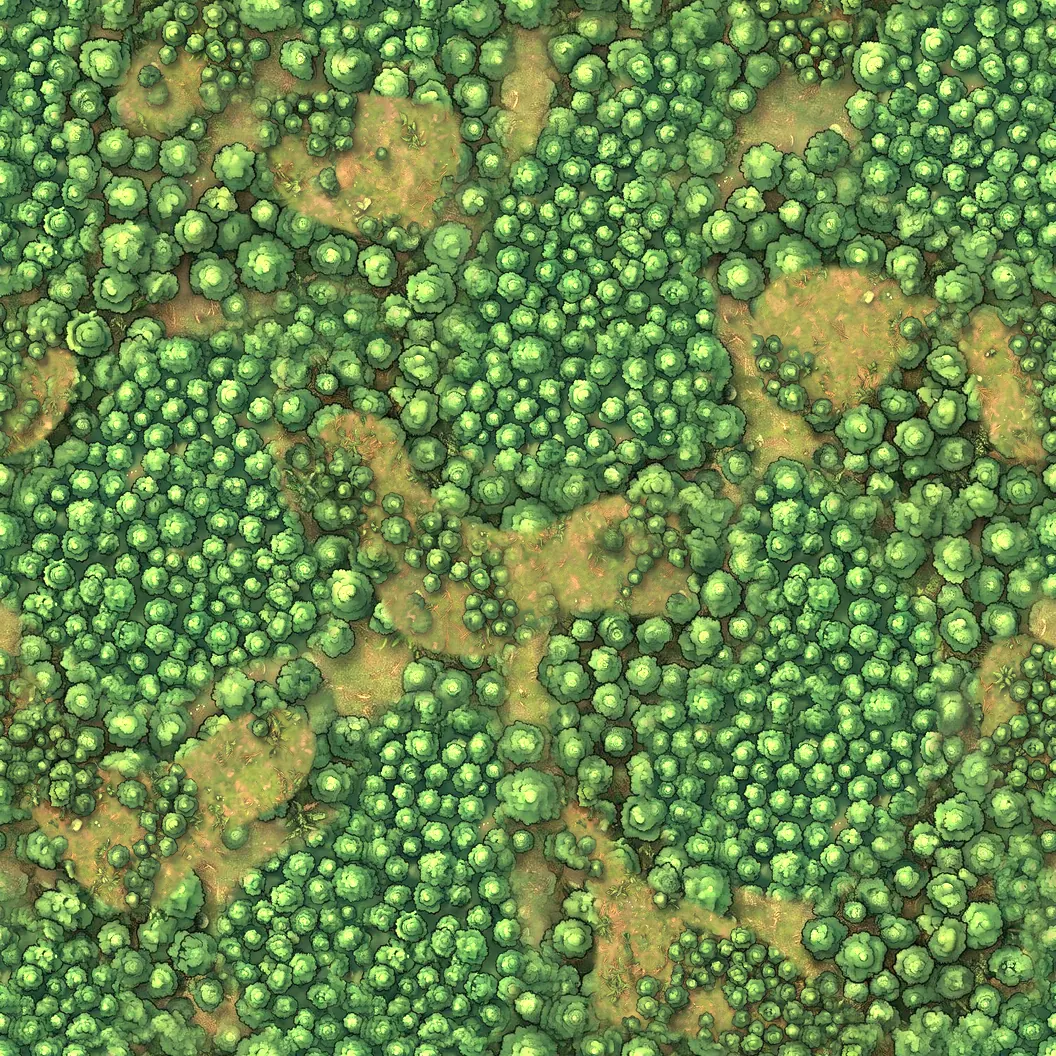
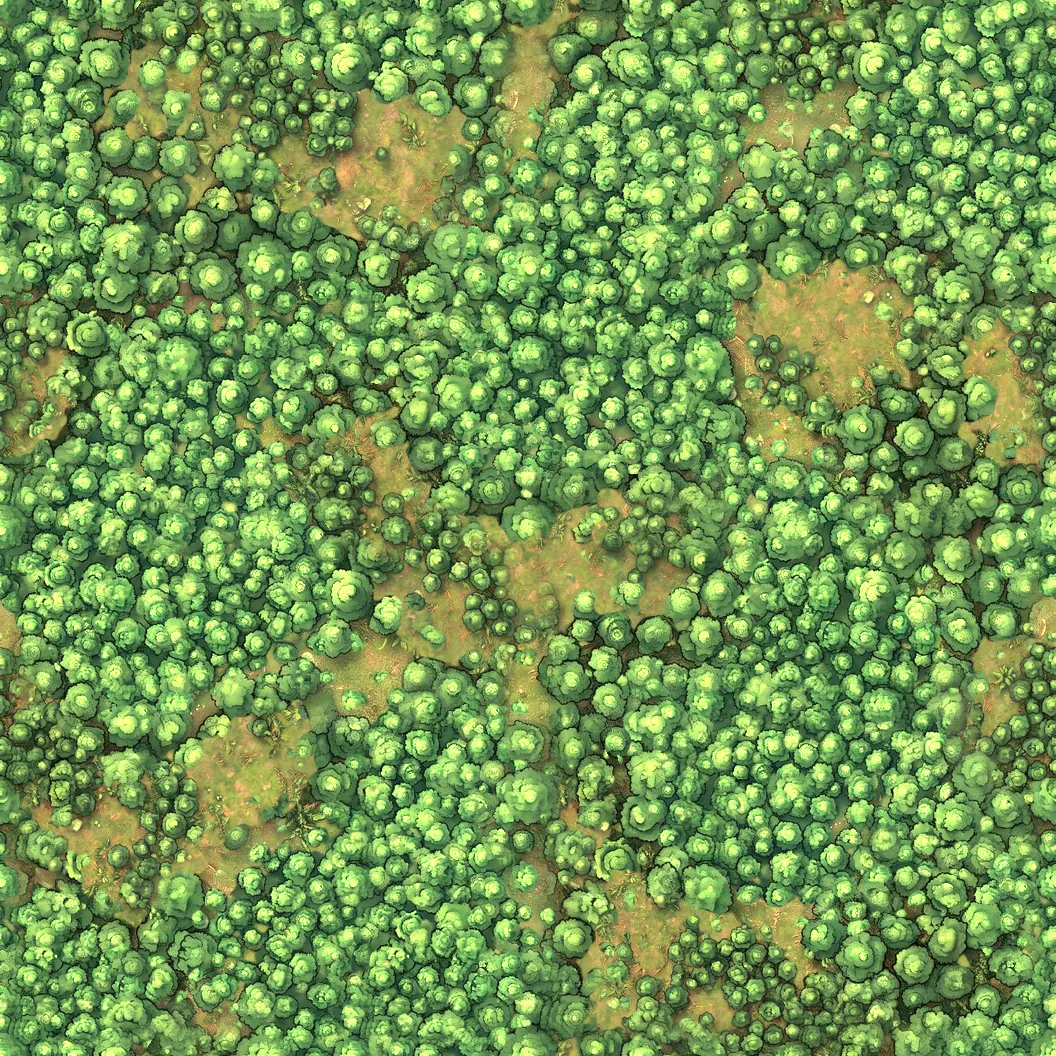
Ground pictures blended by taking each pixel from one of them rather than fading both together: where two densities meet, treetops of either stand whole on the other's ground, no ground showing see-through over trees
Claude-Session: https://claude.ai/code/session_014mPV2zL44TcDQaUfxc49uR

diff --git a/scripts/texture.py b/scripts/texture.py
@@ -78,14 +78,24 @@ else:
     v = np.argsort(np.argsort(v.ravel())).reshape(v.shape) / (v.size - 1)
     # (the densest the most of them: about half the ground thick, a quarter with a few clearings, the rest open)
     pos = v ** a.thick * (len(tiles) - 1)
-    out = np.zeros((n, n, 3), np.float32)
-    weight = np.zeros((n, n, 1), np.float32)
+    # Where two meet, each pixel is taken from one of them rather than both faded together (which shows one
+    # painting see-through over the other, ground over treetops): the one with the more weight there, a
+    # treetop or a plant standing higher than bare ground (how much greener than it is red and blue), so
+    # trees of either stand whole on the other's ground; the choice made over a pixel or two, for no jaggies
+    from scipy import ndimage
+    layers, scores = [], []
     for i, t in enumerate(tiles):
-        wgt = np.clip(1.6 - np.abs(pos - i) * 2.2, 0, 1)[..., None] ** 1.5
         k = n // t.shape[0]
-        out += np.tile(t, (k, k, 1)) * wgt
-        weight += wgt
-    out /= np.maximum(weight, 1e-6)
+        big = np.tile(t, (k, k, 1))
+        wgt = np.clip(1.5 - np.abs(pos - i) * 1.1, 0, 1)
+        green = big[..., 1] - (big[..., 0] + big[..., 2]) / 2
+        tall = ndimage.gaussian_filter((green - green.mean()) / (green.std() + 1e-6), 3, mode='wrap')
+        layers.append(big)
+        scores.append(np.where(wgt > 0, wgt * 1.6 + 0.9 * tall, -1e9))
+    scores = np.stack(scores)
+    pick = np.exp((scores - scores.max(0)) / 0.08)
+    pick /= pick.sum(0)
+    out = sum(l * p[..., None] for l, p in zip(layers, pick))
 
 pic = Image.fromarray(out.clip(0, 255).astype(np.uint8))
 path = f'images/terrain/{a.biome}.webp'
